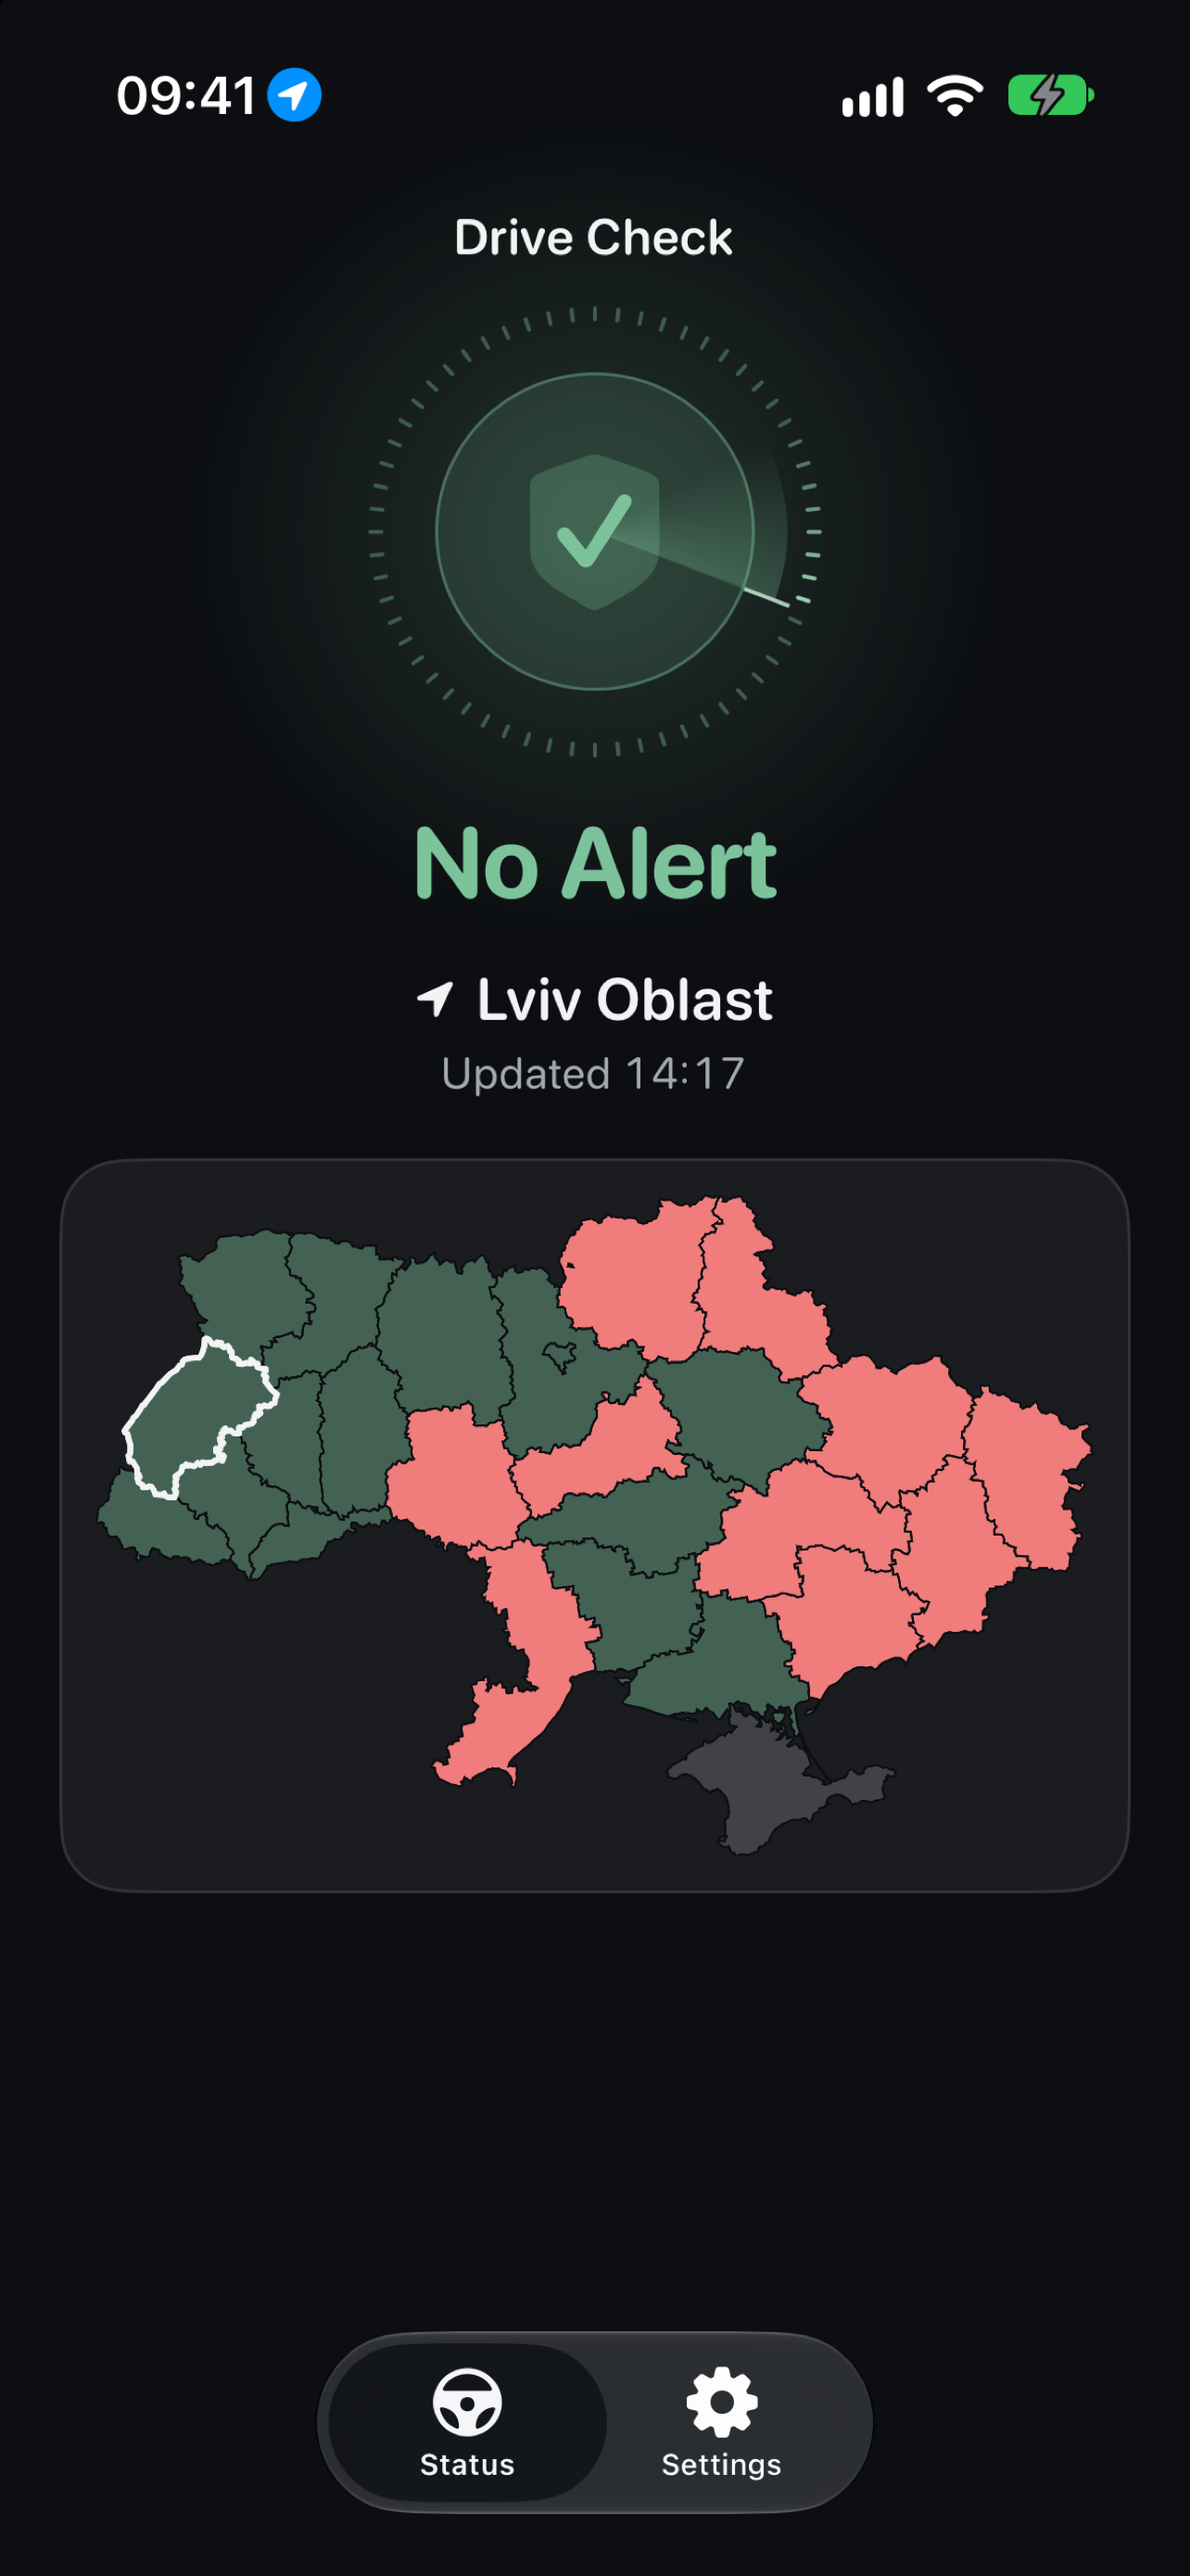
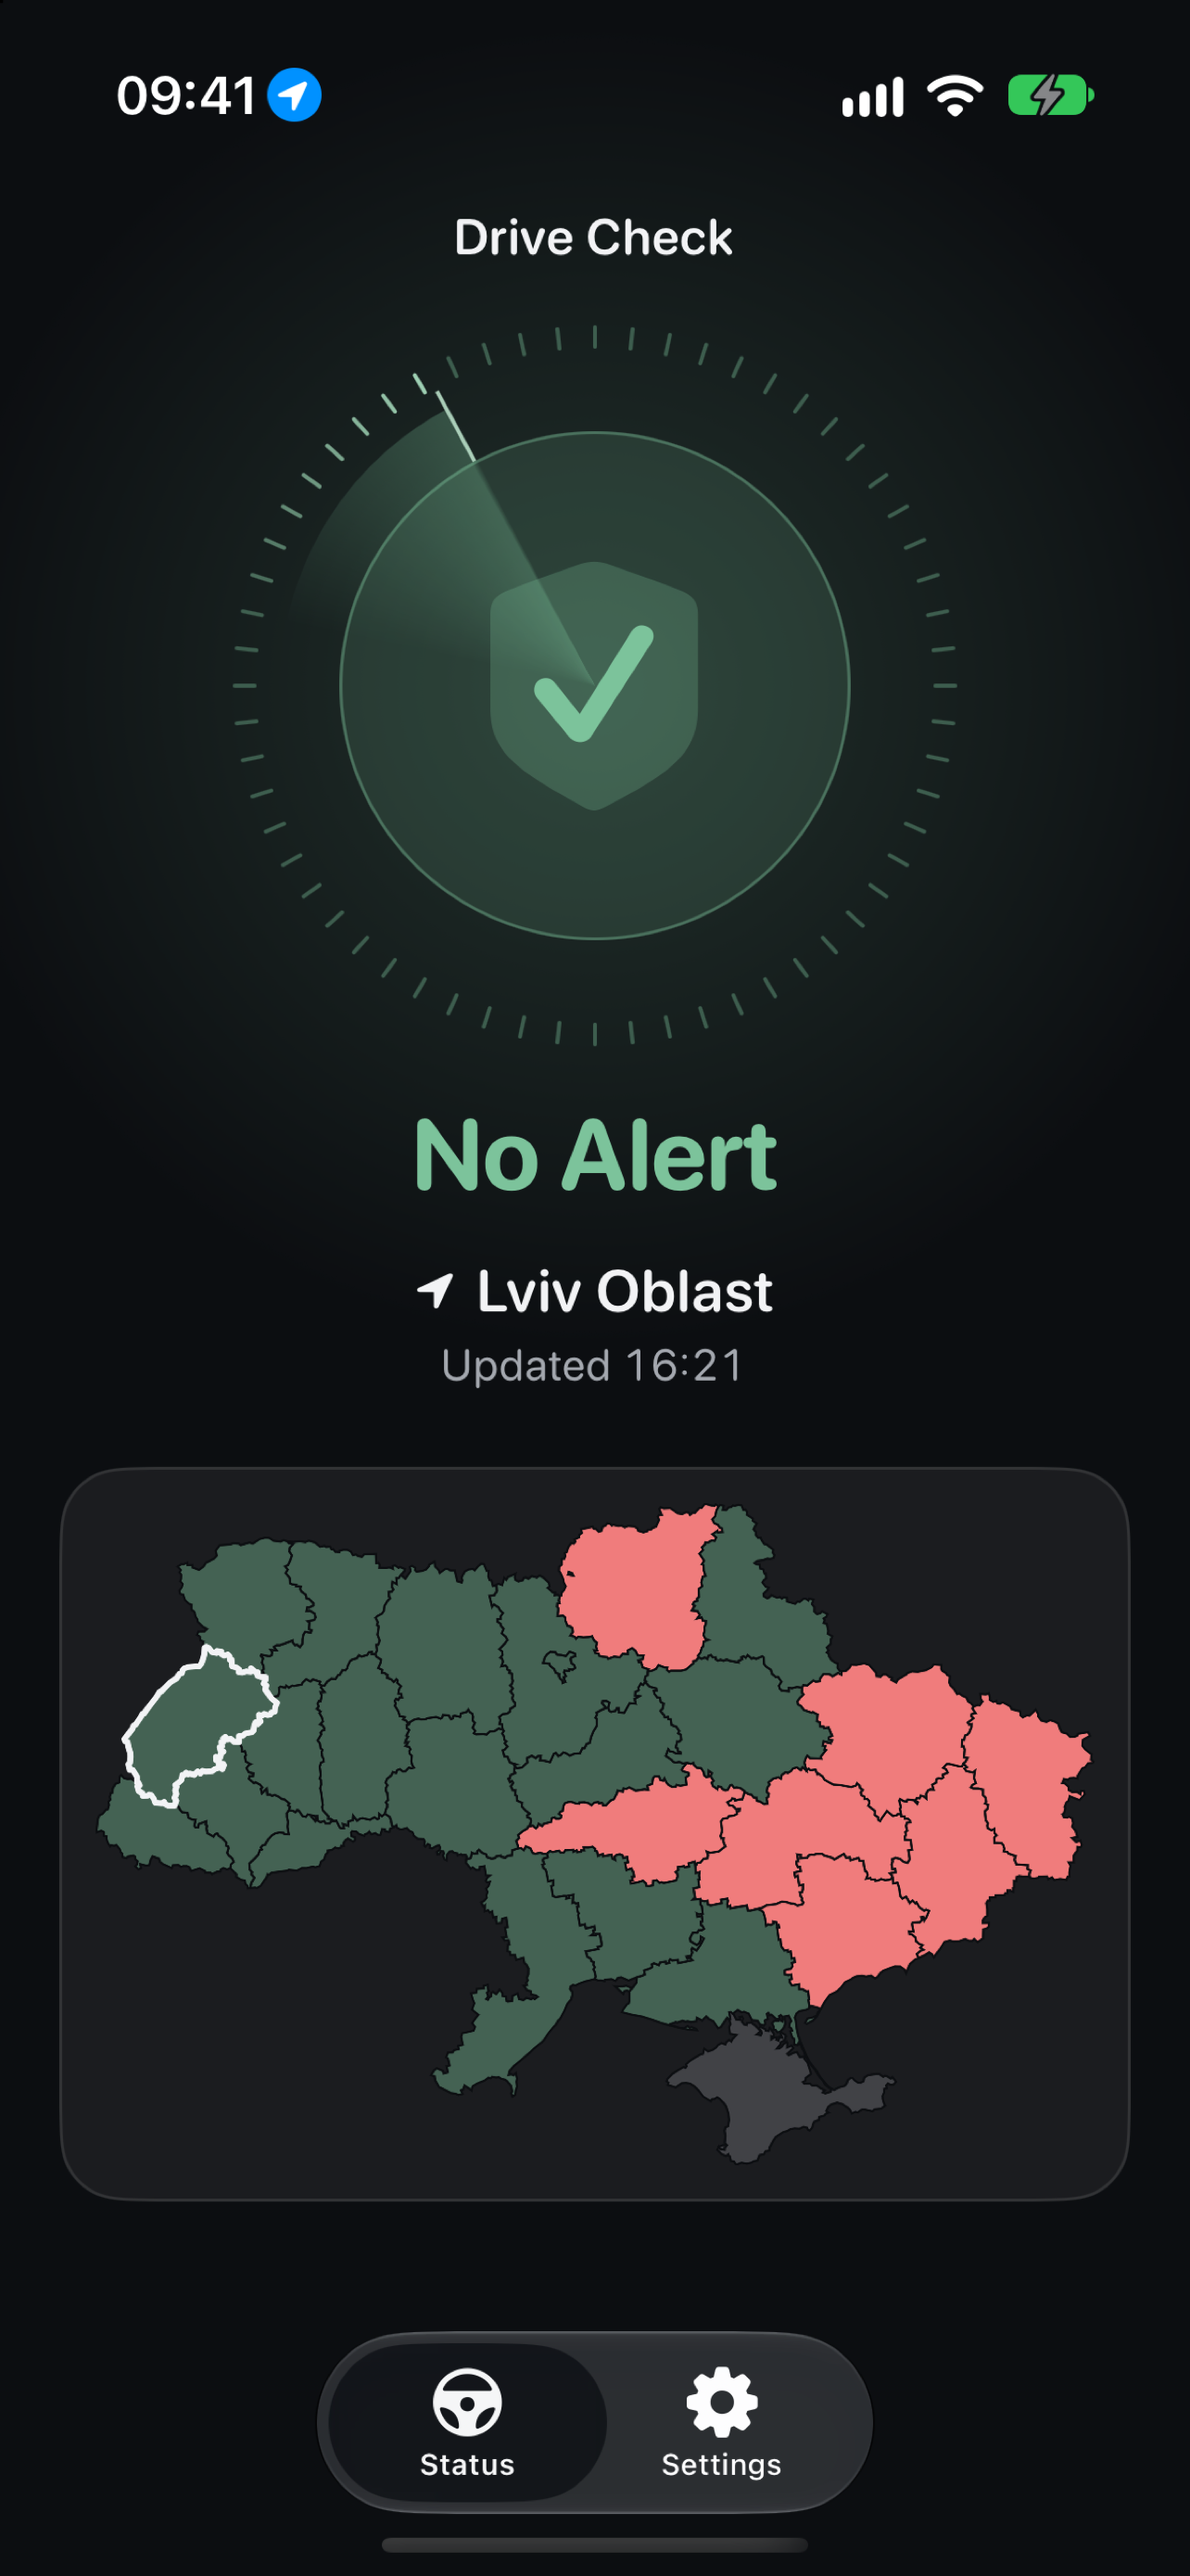
docs(release): recapture App Store screens 02-05 for two statuses
Screen 03 was the yellow Stay Alert; it is now Poltava Oblast's green
No Alert with the "Alert nearby" note, renamed 03-status-alert-nearby.
02, 04 and 05 are recaptured from the same feed moment with the grown ring.

Changed region(s): [[0.0935, 0.1238, 0.9346, 0.8359], [0.3115, 0.9597, 0.6542, 0.9906]]

diff --git a/release/screenshots/README.md b/release/screenshots/README.md
@@ -8,15 +8,25 @@ the same English set.
 1. `asc/01-onboarding.png` — first launch: the welcome sheet, "Continue".
 2. `asc/02-status-no-alert.png` — Status, Lviv Oblast with no alert: the radar around the
    shield, no reason line (no neighbour under alert), and the map the app draws, Lviv Oblast outlined.
-3. `asc/03-status-stay-alert.png` — Status, Poltava Oblast in yellow "Stay Alert": quiet, with
-   most of its neighbours under alert, and the reason line "Alert nearby: Chernihiv Oblast, Sumy
-   Oblast +4".
+3. `asc/03-status-alert-nearby.png` — Status, Poltava Oblast quiet: green "No Alert" with the
+   reason line "Alert nearby: Chernihiv Oblast, Kharkiv Oblast +2" (STATUS-two-states: neighbours
+   are a note, never a third status).
 4. `asc/04-status-alert.png` — Status, Kharkiv Oblast under alert: the radar around the
    siren and the reason line "Alert since 13:47".
 5. `asc/05-region-list.png` — the read-only region list opened from the map.
 6. `asc/06-details.png` — Settings: Live Activities, notifications, About.
 
 All six are 1284 x 2778 opaque portrait images.
+
+## Capture provenance (3.4.0, STATUS-two-states)
+
+Screens 02–05 were recaptured on 2026-11-13 at 16:21–16:23 Kyiv time from the STATUS-two-states
+Debug build, on the same simulator with live Ubilling data (8 regions under alert in the feed), the
+same way as below: Lviv Oblast (02), Poltava Oblast (03), Kharkiv Oblast (04 and the region list,
+05). The ring is larger than in earlier sets because it grows into the spare height above the map.
+The raw 1206 x 2622 captures were flattened to opaque RGB and scaled to 1284 x 2778 with a
+CoreGraphics script (lossless, unlike a JPEG round trip); the flattened 1206 x 2622 captures are the
+6.1" set. 01 and 06 are unchanged.
 
 ## Capture provenance (3.4.0, MAP-native)
 

diff --git a/specs/STATUS-two-states/plan.md b/specs/STATUS-two-states/plan.md
@@ -153,7 +153,7 @@ Snapshots: `Status-stay-alert` becomes the green "No Alert" with the note (previ
   stored per region in the app's defaults; `StatusReasonLine` quiet branch; strings.
 
 ## Group 4: evidence and release
-- [ ] T007 Snapshots, docs and CHANGELOG, 3.4 notes and What's New, screenshot 03 recaptured.
+- [x] T007 Snapshots, docs and CHANGELOG, 3.4 notes and What's New, screenshot 03 recaptured.
 
 ## Review lows
 (filled by implement)
